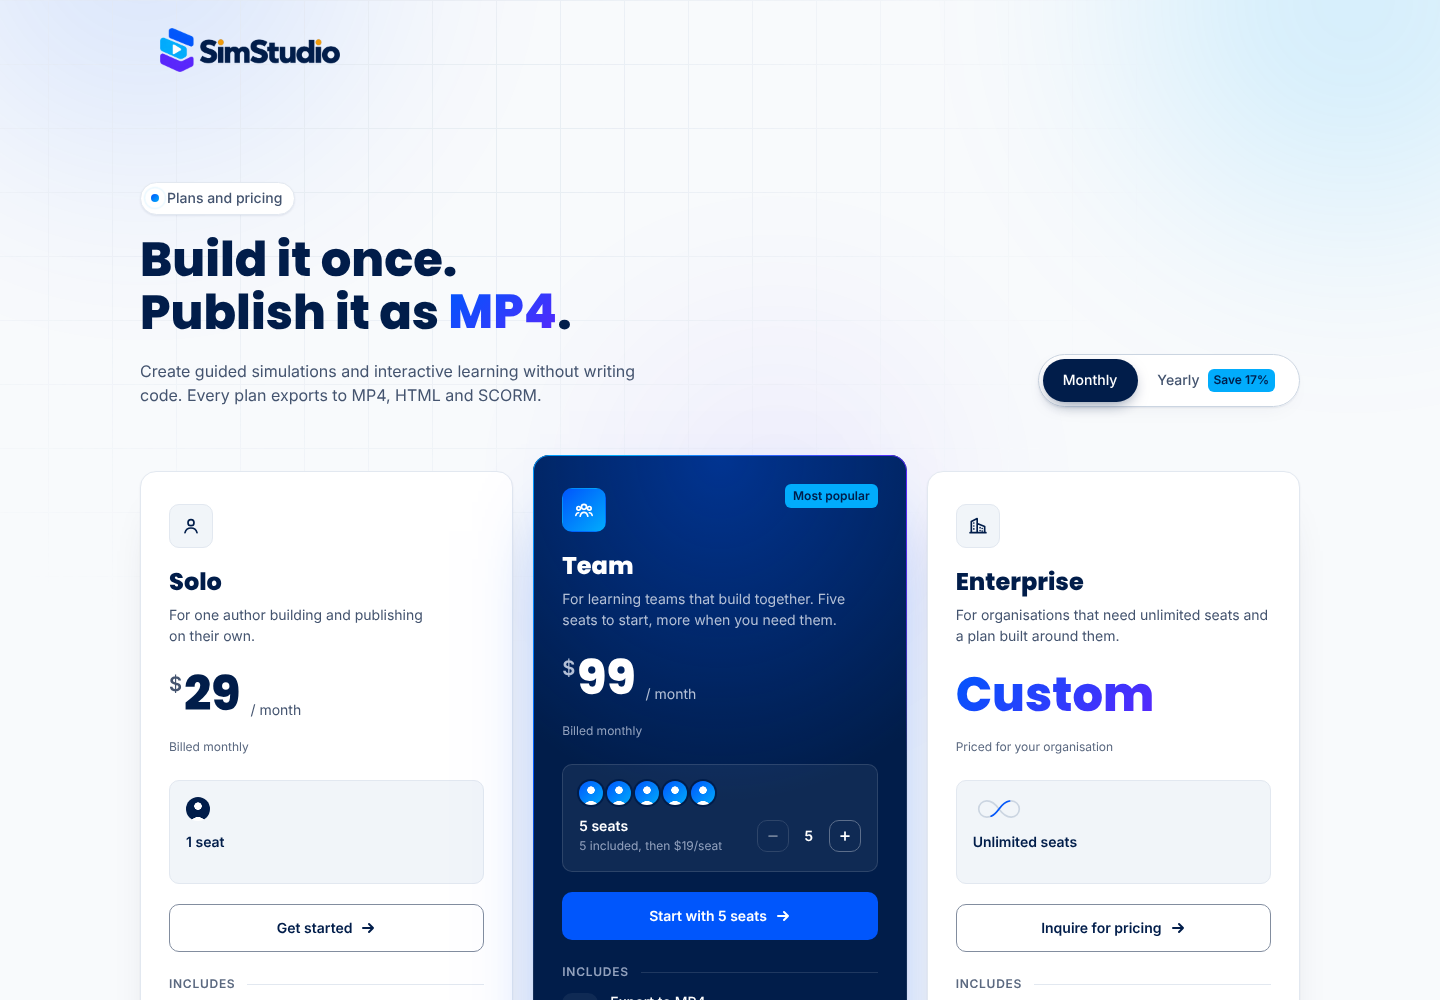
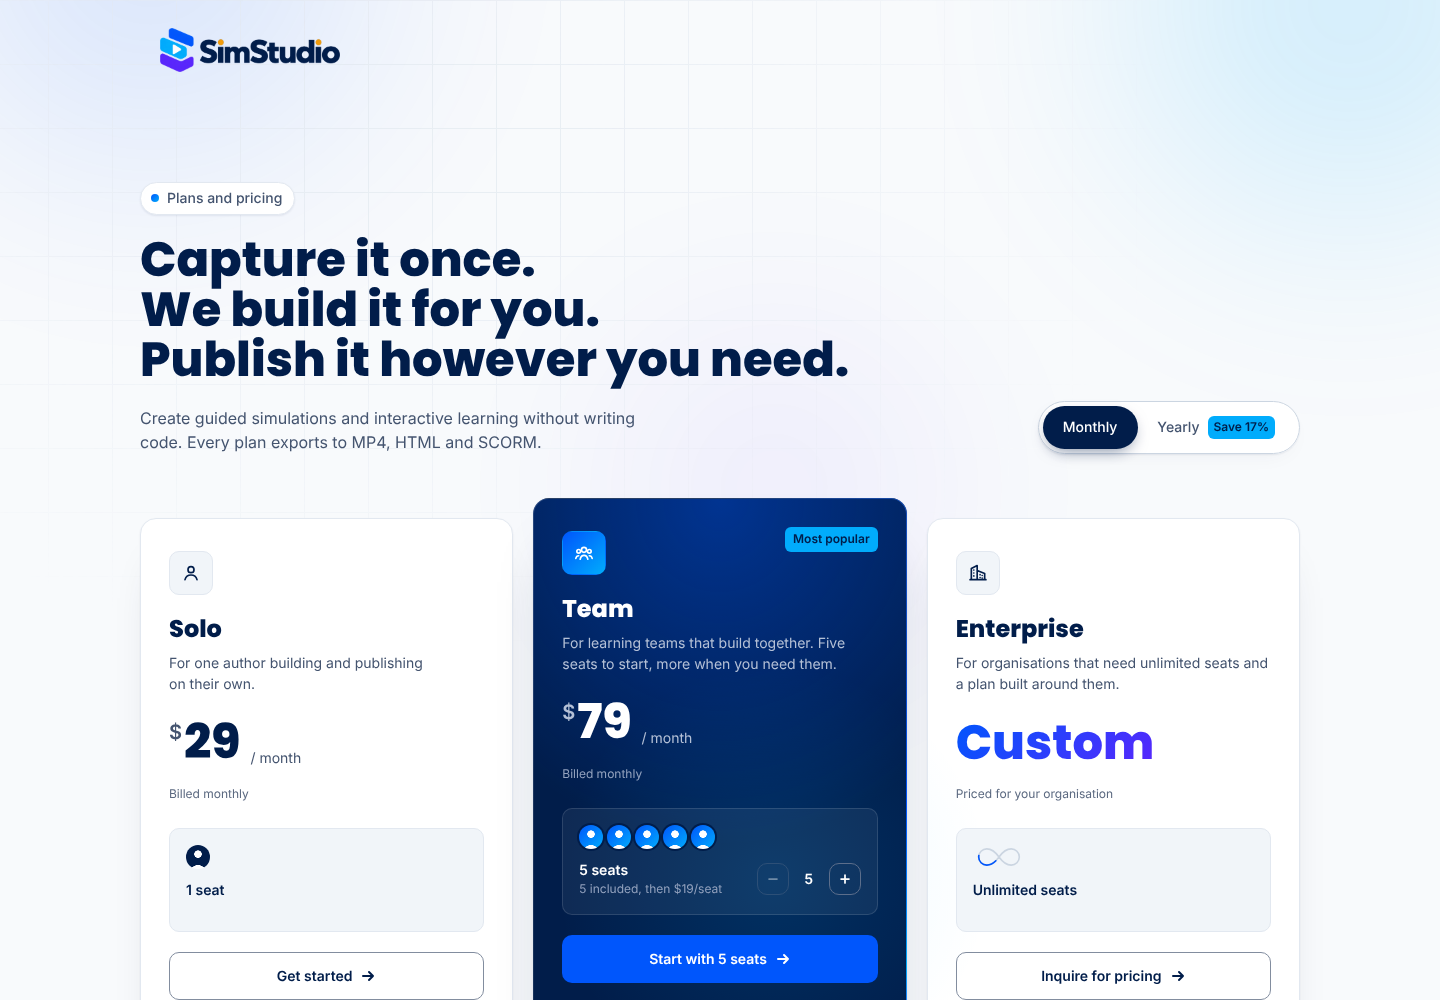
Pricing page: three-line hero headline and a $79 Team price
- Headline is now "Capture it once. / We build it for you. / Publish it
  however you need.", one sentence per line at the Display size; the
  MP4 / HTML / SCORM rotator is removed with its CSS and script
- The header wraps the billing toggle below the headline when they
  don't fit side by side
- Team is $79 a month, $66 a month billed yearly (the same ~17% yearly
  discount); extra seats unchanged

Claude-Session: https://claude.ai/code/session_01A2zM5C3D3cNXCr8h1frTPg

diff --git a/components/pricing-page/index.html b/components/pricing-page/index.html
@@ -35,14 +35,15 @@
         <p class="ui-eyebrow" data-reveal><span class="ui-eyebrow__dot" aria-hidden="true"></span>Plans and pricing</p>
 
         <h1 class="ui-pricing__title" id="pricing-title">
-          <span class="ui-pricing__line" data-reveal style="--delay: 60ms">Build it once.</span>
-          <span class="ui-pricing__line" data-reveal style="--delay: 120ms">Publish it as&nbsp;<span class="ui-rotator" data-ui-rotator aria-hidden="true"><span class="ui-rotator__word is-active">MP4</span><span class="ui-rotator__word">HTML</span><span class="ui-rotator__word">SCORM</span></span><span class="ui-sr">MP4, HTML or SCORM</span>.</span>
+          <span class="ui-pricing__line" data-reveal style="--delay: 60ms">Capture it once.</span>
+          <span class="ui-pricing__line" data-reveal style="--delay: 120ms">We build it for you.</span>
+          <span class="ui-pricing__line" data-reveal style="--delay: 180ms">Publish it however you&nbsp;need.</span>
         </h1>
 
-        <p class="ui-pricing__lede" data-reveal style="--delay: 180ms">Create guided simulations and interactive learning without writing code. Every plan exports to MP4, HTML and&nbsp;SCORM.</p>
+        <p class="ui-pricing__lede" data-reveal style="--delay: 240ms">Create guided simulations and interactive learning without writing code. Every plan exports to MP4, HTML and&nbsp;SCORM.</p>
       </div>
 
-      <div class="ui-billing-wrap" data-reveal style="--delay: 240ms">
+      <div class="ui-billing-wrap" data-reveal style="--delay: 300ms">
         <fieldset class="ui-billing" data-ui-billing>
           <legend class="ui-sr">Billing period</legend>
           <input class="ui-billing__input" type="radio" name="billing" id="billing-monthly" value="monthly" checked>
@@ -105,7 +106,7 @@
       </article>
 
       <!-- ---------------- Team (featured) ---------------- -->
-      <article class="ui-plan ui-plan--featured" data-plan="team" data-monthly="99" data-yearly="82" data-seats-included="5" data-seat-monthly="19" data-seat-yearly="16" data-reveal style="--delay: 460ms">
+      <article class="ui-plan ui-plan--featured" data-plan="team" data-monthly="79" data-yearly="66" data-seats-included="5" data-seat-monthly="19" data-seat-yearly="16" data-reveal style="--delay: 460ms">
         <span class="ui-plan__ring" aria-hidden="true"></span>
         <span class="ui-plan__badge">Most popular</span>
 
@@ -119,9 +120,9 @@
 
         <div class="ui-plan__price">
           <span class="ui-plan__currency" aria-hidden="true">$</span>
-          <span class="ui-plan__amount" data-price aria-hidden="true">99</span>
+          <span class="ui-plan__amount" data-price aria-hidden="true">79</span>
           <span class="ui-plan__per" aria-hidden="true">/ month</span>
-          <span class="ui-sr" data-price-sr aria-live="polite">$99 per month</span>
+          <span class="ui-sr" data-price-sr aria-live="polite">$79 per month</span>
         </div>
         <p class="ui-plan__billing">
           <span data-billing-note>Billed monthly</span>

diff --git a/components/pricing-page/script.js b/components/pricing-page/script.js
@@ -3,7 +3,6 @@
    - Billing toggle with a sliding thumb; prices roll like an odometer
    - Team seat stepper (5 included, extra seats added to the price)
    - Pointer spotlight across the cards
-   - Rotating MP4 / HTML / SCORM in the headline
    - FAQ accordion: opening one answer closes the other
    Prices live in the data-* attributes on each .ui-plan in index.html.
    ========================================================================== */
@@ -325,48 +324,6 @@
       };
       addonToggle.addEventListener("change", updateInquiry);
       updateInquiry();
-    }
-  }
-
-  /* ------------------------------------------------------------------------
-     Headline rotator: MP4 / HTML / SCORM
-     ------------------------------------------------------------------------ */
-  var rotator = document.querySelector("[data-ui-rotator]");
-  if (rotator) {
-    var words = Array.prototype.slice.call(rotator.querySelectorAll(".ui-rotator__word"));
-    words.forEach(function (word) {
-      var text = word.textContent;
-      word.textContent = "";
-      text.split("").forEach(function (ch, i) {
-        var span = document.createElement("span");
-        span.className = "ui-rotator__char";
-        span.style.setProperty("--i", i);
-        span.style.setProperty("--bgx", (i / Math.max(1, text.length - 1)) * 100 + "%");
-        span.textContent = ch;
-        word.appendChild(span);
-      });
-      word.classList.add("is-split");
-    });
-
-    var index = 0;
-    var fit = function () { rotator.style.width = words[index].offsetWidth + "px"; };
-    fit();
-    if (document.fonts && document.fonts.ready) document.fonts.ready.then(fit);
-    window.addEventListener("resize", fit);
-
-    if (!reduceMotion.matches) {
-      setInterval(function () {
-        if (document.hidden) return;
-        var prev = words[index];
-        index = (index + 1) % words.length;
-        var next = words[index];
-        prev.classList.remove("is-active");
-        prev.classList.add("is-leaving");
-        next.classList.remove("is-leaving");
-        next.classList.add("is-active");
-        fit();
-        setTimeout(function () { prev.classList.remove("is-leaving"); }, 700);
-      }, 2600);
     }
   }
 

diff --git a/components/pricing-page/style.css b/components/pricing-page/style.css
@@ -255,12 +255,13 @@ main {
   display: flex;
   align-items: flex-end;
   justify-content: space-between;
+  flex-wrap: wrap;
   gap: 32px 48px;
   max-width: 1160px;
   margin: 0 auto;
 }
 
-.ui-pricing__intro { max-width: 640px; }
+.ui-pricing__intro { min-width: 0; }
 
 .ui-eyebrow {
   display: inline-flex;
@@ -306,58 +307,6 @@ main {
 }
 
 .ui-pricing__line { display: block; }
-
-/* Rotating format name, in the simulation gradient (blue to violet both
-   clear 3:1 as large text on white; cyan would not) */
-.ui-rotator {
-  position: relative;
-  display: inline-grid;
-  vertical-align: bottom;
-  height: 1.12em;
-  overflow: hidden;
-  transition: width var(--ui-m-slow) var(--ui-ease-move);
-}
-
-.ui-rotator__word {
-  grid-area: 1 / 1;
-  justify-self: start;
-  white-space: nowrap;
-  line-height: 1.12;
-}
-
-.ui-rotator__char {
-  display: inline-block;
-  background: var(--ss-gradient-simulation);
-  background-size: 280% 100%;
-  background-position: var(--bgx, 0%) 0;
-  -webkit-background-clip: text;
-          background-clip: text;
-  color: transparent;
-  opacity: 0;
-  transform: translate3d(0, 0.6em, 0);
-  transition:
-    transform var(--ui-m-slow) var(--ui-ease-enter) calc(var(--i) * 30ms),
-    opacity var(--ui-m-base) var(--ui-ease-enter) calc(var(--i) * 30ms);
-}
-
-.ui-rotator__word.is-active .ui-rotator__char {
-  opacity: 1;
-  transform: none;
-}
-
-.ui-rotator__word.is-leaving .ui-rotator__char {
-  opacity: 0;
-  transform: translate3d(0, -0.6em, 0);
-}
-
-/* Before the script splits the words into letters */
-.ui-rotator__word:not(.is-split) {
-  background: var(--ss-gradient-simulation);
-  -webkit-background-clip: text;
-          background-clip: text;
-  color: transparent;
-}
-.ui-rotator__word:not(.is-split):not(.is-active) { visibility: hidden; }
 
 .ui-pricing__lede {
   max-width: 520px;

diff --git a/components/pricing-page/README.md b/components/pricing-page/README.md
@@ -17,7 +17,7 @@ The SimStudio pricing page, with three plans (Solo, Team and Enterprise), a Mont
 | Primary action: Electric Blue, white text, Deep Blue on hover | The Team button. Solo and Enterprise use the secondary button: transparent with a 3:1 edge |
 | Orange is scarce: focus, active controls, key accents | Used only for the two-tone focus ring (2px orange inside, 1px navy or white outside) |
 | Cyan is never text on light | Cyan only fills things: the "Save" and "Most popular" chips (navy text, 6.51:1) and added seats |
-| Two approved gradients, sparingly | Blue to violet for the rotating word, "Custom" and "questions". Blue to cyan for the Team icon and seats |
+| Two approved gradients, sparingly | Blue to violet for "Custom" and "questions". Blue to cyan for the Team icon and seats |
 | Violet: advanced features | The AI agent integration add-on |
 | Type scale | Display 48px, page heading 32px, section heading 24px in Poppins. Body 16px, labels 14px, captions 12px in Inter. Display is set with normal tracking |
 | Corners 6 / 10 / 16 / 999px | Chips / buttons and controls / cards / pills |
@@ -30,7 +30,7 @@ The SimStudio pricing page, with three plans (Solo, Team and Enterprise), a Mont
 
 | Part | Behaviour |
 | --- | --- |
-| Headline | "Publish it as ___" cycles MP4, HTML and SCORM in the blue-to-violet gradient |
+| Headline | "Capture it once. / We build it for you. / Publish it however you need." Three sentences at the Display size, one per line |
 | Billing toggle | Real radio buttons with a sliding navy thumb. The "Save 17%" chip on Yearly is worked out from the prices |
 | Prices | Digits roll like an odometer, rightmost first. Yearly shows "Billed yearly as $X" and a "Save $X/yr" chip |
 | Solo | 1 seat |
@@ -46,7 +46,7 @@ Prices live on each card in `index.html`. The script reads them, so nothing else
 ```html
 <article class="ui-plan" data-plan="solo" data-monthly="29" data-yearly="24">
 <article class="ui-plan ui-plan--featured" data-plan="team"
-         data-monthly="99" data-yearly="82"
+         data-monthly="79" data-yearly="66"
          data-seats-included="5" data-seat-monthly="19" data-seat-yearly="16">
 ```
 
@@ -56,7 +56,7 @@ The Team stepper's limit is `MAX_SEATS` (500) in `script.js`. The Enterprise inq
 
 ## Placeholder content to confirm
 
-- All prices ($29 / $24 Solo, $99 / $82 Team, $19 / $16 per extra seat)
+- All prices ($29 / $24 Solo, $79 / $66 Team, $19 / $16 per extra seat)
 - `sales@example.com` for the inquiry and "Talk to us" links
 - The logo links to `#`
 - The tagline copy, the AI add-on description and the FAQ answers (plan changes and payment methods especially)
